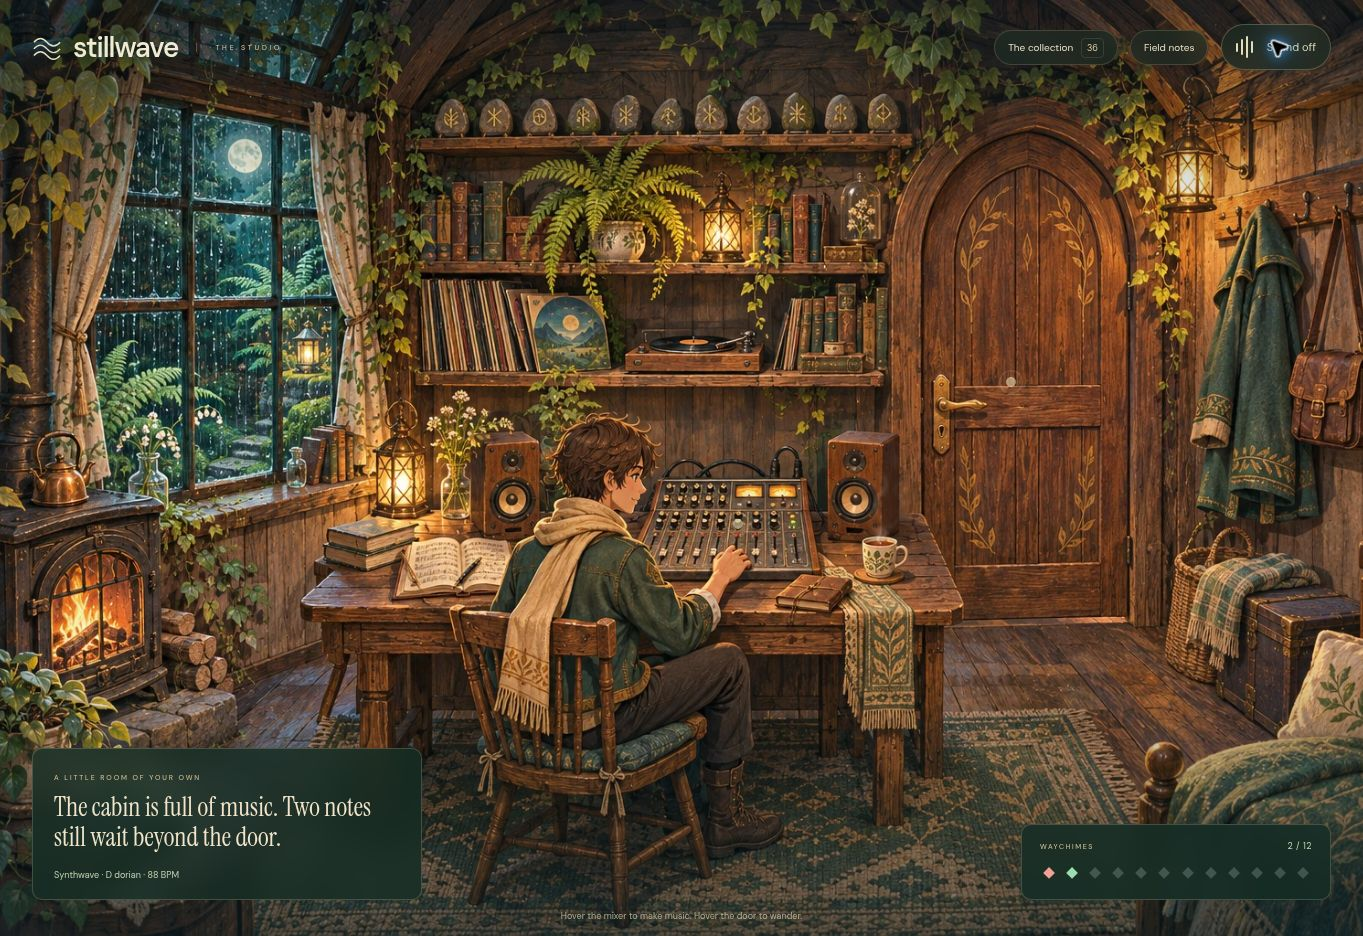
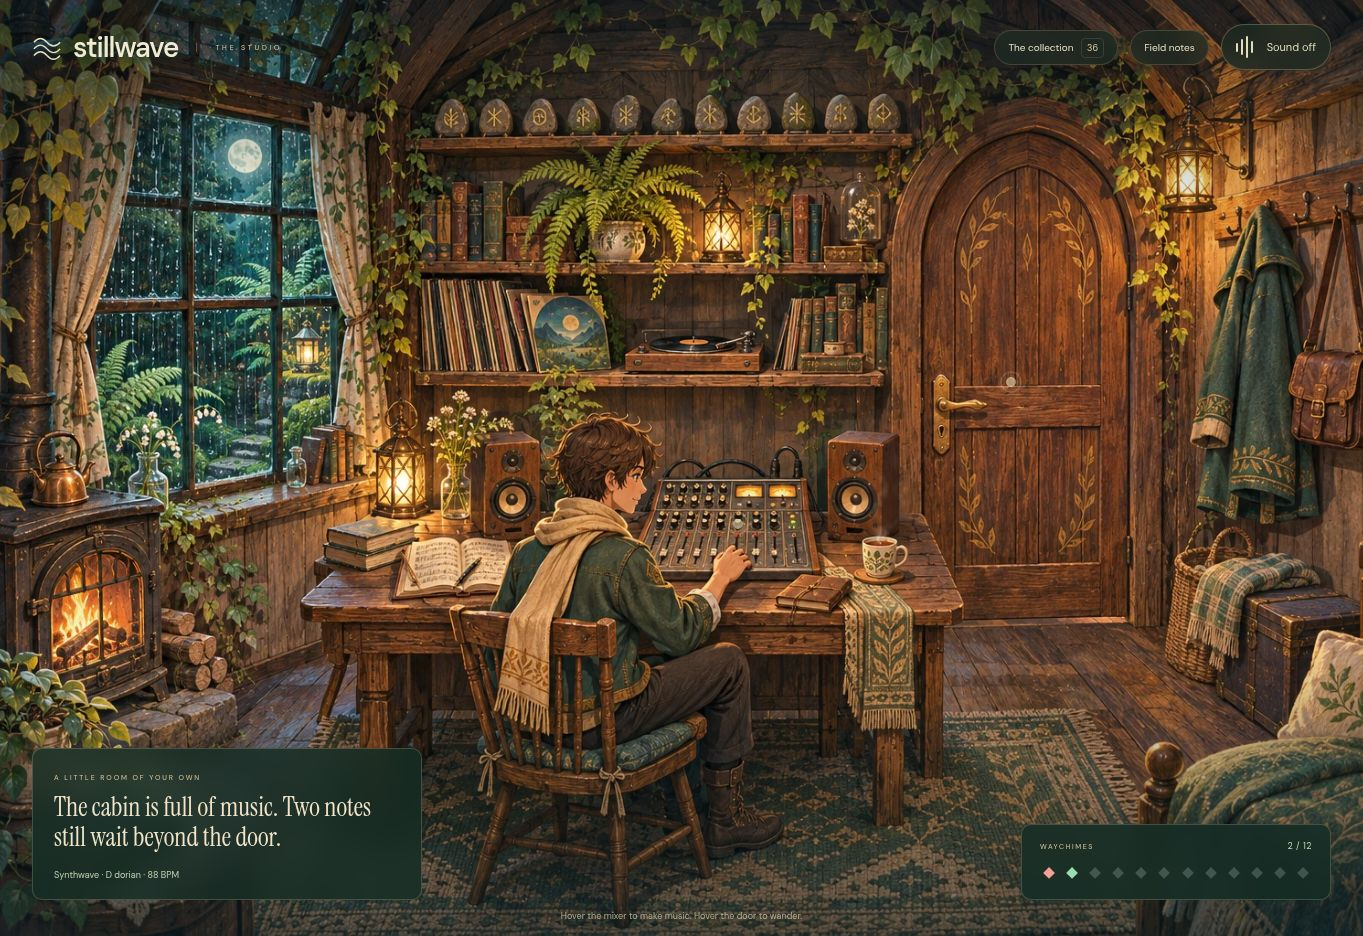
Animate the cabin hearth and candle lanterns
Add restrained flame movement and independent warm flicker to the hearth and four candle lanterns while preserving the metal frames. Keep the 24-second seam and Reduced Motion behavior, and verify every light in the browser checks.

diff --git a/js/cabin.js b/js/cabin.js
@@ -6,6 +6,17 @@ export function cabinCrop(width,height,imageWidth,imageHeight,positionX=.5){
  return {x:-(width-w)*positionX/w,y:-(height-h)*.5/h,width:width/w,height:height/h};
 }
 const TAU=Math.PI*2;
+export function flameMotion(phase,seed=0){
+ const angle=phase*TAU;
+ return {sway:.6*Math.sin(angle*19+seed)+.25*Math.sin(angle*37+seed*1.7),stretch:1+.07*Math.sin(angle*23+seed*.7)+.035*Math.sin(angle*41+seed*1.3),glow:.85+.08*Math.sin(angle*17+seed)+.045*Math.sin(angle*31+seed*1.9)};
+}
+const fireLights=[
+ {bounds:[77,603,103,133],opening:[[82,644],[90,627],[109,612],[130,608],[151,613],[169,629],[175,651],[177,702],[166,714],[86,734]],center:[125,671],radius:125,sway:2.6,seed:0,hearth:true},
+ {bounds:[431,494,61,62],opening:[[435,501],[486,497],[490,548],[432,554]],center:[461,525],radius:73,sway:.8,seed:1.7},
+ {bounds:[793,230,42,47],opening:[[795,235],[830,231],[833,272],[797,276]],center:[814,255],radius:48,sway:.65,seed:3.4},
+ {bounds:[1297,162,51,58],opening:[[1300,166],[1344,162],[1347,212],[1302,219]],center:[1320,191],radius:73,sway:.75,seed:5.1},
+ {bounds:[346,370,27,31],opening:[[349,374],[370,371],[372,397],[348,400]],center:[359,385],radius:33,sway:.5,seed:6.8}
+];
 const traveler=[[639,452],[696,448],[742,473],[735,527],[724,550],[760,589],[790,613],[819,595],[839,590],[846,605],[830,632],[811,646],[814,676],[784,717],[743,733],[684,749],[635,744],[580,740],[564,697],[565,653],[587,598],[610,583],[608,546],[620,526],[614,495]];
 const panes=[[[179,122],[223,130],[222,211],[167,210]],[[235,131],[322,143],[325,214],[235,212]],[[334,145],[355,152],[368,216],[336,215]],[[163,227],[222,230],[220,324],[146,326]],[[234,230],[325,232],[328,324],[234,324]],[[338,232],[370,234],[380,324],[339,324]],[[145,343],[219,343],[215,524],[127,539]],[[234,343],[328,342],[331,513],[231,526]],[[341,341],[385,343],[391,505],[343,511]]];
 function path(points){const p=new Path2D();points.forEach(([x,y],i)=>p[i?'lineTo':'moveTo'](x,y));p.closePath();return p;}
@@ -15,6 +26,13 @@ function mask(){
  return ctx.getImageData(0,0,1536,1024).data;
 }
 function smooth(low,high,value){const t=Math.max(0,Math.min(1,(value-low)/(high-low)));return t*t*(3-2*t);}
+function lampFrame(image,light){
+ const [x,y,width,height]=light.bounds,canvas=document.createElement('canvas');canvas.width=width;canvas.height=height;
+ const ctx=canvas.getContext('2d',{willReadFrequently:true});ctx.drawImage(image,x,y,width,height,0,0,width,height);const pixels=ctx.getImageData(0,0,width,height);
+ // Restore dark metal, window bars, and logs over the moving light behind them.
+ for(let i=0;i<pixels.data.length;i+=4){const brightness=pixels.data[i]*.3+pixels.data[i+1]*.59+pixels.data[i+2]*.11;pixels.data[i+3]=Math.round((1-smooth(58,160,brightness))*255);}
+ ctx.putImageData(pixels,0,0);return canvas;
+}
 function triangle(ctx,image,source,destination){
  const [s0,s1,s2]=source,[d0,d1,d2]=destination;
  const sx1=s1.x-s0.x,sy1=s1.y-s0.y,sx2=s2.x-s0.x,sy2=s2.y-s0.y,det=sx1*sy2-sx2*sy1;
@@ -44,6 +62,7 @@ export class CabinAnimation{
    await this.image.decode();const plate=new Image();plate.src=new URL('../assets/cabin-steam-plate.webp',import.meta.url).href;await plate.decode();
    this.ctx=this.canvas.getContext('2d',{alpha:false});if(!this.ctx)throw new Error('Canvas unavailable');
    this.travelerMask=mask();this.glass=new Path2D();for(const pane of panes)this.glass.addPath(path(pane));this.foliage=new Path2D();for(const pane of panes.slice(3))this.foliage.addPath(path(pane));
+   this.fireLights=fireLights.map(light=>({...light,clip:path(light.opening),frame:lampFrame(this.image,light)}));
    // Feather the generated clean plate into only the old steam area.
    this.plate=document.createElement('canvas');this.plate.width=96;this.plate.height=96;const pc=this.plate.getContext('2d');pc.drawImage(plate,0,0);
    pc.globalCompositeOperation='destination-in';const gradient=pc.createRadialGradient(43,43,19,43,43,43);gradient.addColorStop(0,'#fff');gradient.addColorStop(1,'#fff0');pc.fillStyle=gradient;pc.fillRect(0,0,96,77);pc.clearRect(0,77,96,19);
@@ -74,6 +93,23 @@ export class CabinAnimation{
   for(let i=0;i<12;i++){
    const age=(phase*4+i/12)%1,drift=Math.sin(age*TAU*1.2+angle*4+i*.32)*(2+age*7),x=985+drift,y=590-age*88,radius=5+age*5,opacity=Math.sin(age*Math.PI)**1.5*.13;
    ctx.save();ctx.translate(x,y);ctx.scale((2.4+age*3.8)/radius,1);const g=ctx.createRadialGradient(0,0,0,0,0,radius);g.addColorStop(0,`rgba(234,235,218,${opacity})`);g.addColorStop(1,'rgba(234,235,218,0)');ctx.fillStyle=g;ctx.fillRect(-radius,-radius,radius*2,radius*2);ctx.restore();
+  }
+  this.paintFire(phase);
+ }
+ paintFire(phase){
+  const ctx=this.ctx,angle=phase*TAU;
+  for(const light of this.fireLights){
+   const motion=flameMotion(phase,light.seed),[x,y,width,height]=light.bounds;
+   ctx.save();ctx.clip(light.clip);
+   mesh(ctx,this.image,light.bounds,light.hearth?6:2,light.hearth?8:3,(px,py)=>{
+    const rise=1-smooth(y,y+height,py),ripple=.7+.3*Math.sin(py*.16+angle*13+light.seed);
+    return [motion.sway*light.sway*rise*ripple,(1-motion.stretch)*height*.5*rise];
+   });
+   ctx.drawImage(light.frame,x,y);
+   ctx.globalCompositeOperation='screen';ctx.globalAlpha=.025+motion.glow*.045;ctx.drawImage(this.image,x,y,width,height,x,y,width,height);ctx.restore();
+   // A restrained warm reflection follows each flame's own flicker.
+   const [cx,cy]=light.center,radius=light.radius,opacity=(light.hearth?.045:.026)*motion.glow;
+   ctx.save();ctx.globalCompositeOperation='screen';const glow=ctx.createRadialGradient(cx,cy,0,cx,cy,radius);glow.addColorStop(0,`rgba(255,167,63,${opacity})`);glow.addColorStop(.45,`rgba(255,145,46,${opacity*.36})`);glow.addColorStop(1,'rgba(255,145,46,0)');ctx.fillStyle=glow;ctx.fillRect(cx-radius,cy-radius,radius*2,radius*2);ctx.restore();
   }
  }
  draw(now,{visible=true,positionX=.5}={}){

diff --git a/tests/cabin.html b/tests/cabin.html
@@ -2,7 +2,7 @@
 <style>body{font:15px system-ui;background:#17332f;color:#e6ecd4;margin:25px}button,a{background:#c4d7ad;color:#17332f;border:0;padding:12px 16px;border-radius:6px;margin:4px;cursor:pointer}pre{line-height:1.7;white-space:pre-wrap}.scene{position:relative;width:min(900px,100%);aspect-ratio:3/2;overflow:hidden}img,canvas{position:absolute;width:100%;height:100%;inset:0}canvas:not(.active){visibility:hidden}</style>
 <h1>Cabin animation checks</h1><p>Development page, excluded from publication.</p><button id="verify">Verify loop and motion regions</button><button id="play">Play / pause</button><button id="reduce">Toggle reduced motion</button><a href="./qa.html">Journey fixtures</a><pre id="result">Ready.</pre><div class="scene"><img id="art" src="./assets/cabin.webp"><canvas id="animation"></canvas></div>
 <script type="module">
-import {CabinAnimation} from './js/cabin.js?v=2.3.0';
+import {CabinAnimation} from './js/cabin.js?v=2.3.1';
 const canvas=document.querySelector('canvas'),image=document.querySelector('img'),animation=new CabinAnimation(canvas,image),out=document.querySelector('pre');let playing=true,reduced=false;
 document.querySelector('#play').onclick=()=>playing=!playing;
 document.querySelector('#reduce').onclick=()=>{reduced=!reduced;animation.setReducedMotion(reduced);out.textContent=reduced?'Reduced motion: original still image.':'Motion enabled.';};
@@ -15,7 +15,7 @@ document.querySelector('#verify').onclick=async()=>{
   const first=render(0),moved=render(3000),seam=render(24000);let seamError=0;for(let i=0;i<first.length;i++)seamError=Math.max(seamError,Math.abs(first[i]-seam[i]));check(seamError===0,'24-second loop seam is pixel-identical');
   const beforeSeam=render(23950),afterStart=render(50);const difference=(a,b)=>{let total=0;for(let i=0;i<a.length;i+=4)for(let c=0;c<3;c++)total+=Math.abs(a[i+c]-b[i+c]);return total/(a.length*.75);};check(difference(beforeSeam,first)<=difference(first,afterStart)*1.6+.03,'Crossing the seam has no larger jump than an ordinary frame');
   function delta(rect){let changed=0,total=0;for(let y=Math.ceil(rect[1]/1024*canvas.height);y<rect[3]/1024*canvas.height;y++)for(let x=Math.ceil(rect[0]/1536*canvas.width);x<rect[2]/1536*canvas.width;x++){const i=(y*canvas.width+x)*4;let difference=0;for(let ch=0;ch<3;ch++)difference+=Math.abs(first[i+ch]-moved[i+ch]);total++;if(difference>3)changed++;}return changed/total;}
-  for(const [name,region] of [['Traveler',[610,455,740,565]],['Rain',[242,243,315,310]],['Foliage',[245,355,318,485]],['Steam',[965,515,1010,584]]]){const fraction=delta(region);check(fraction>.015,name+' moves: '+(fraction*100).toFixed(1)+'% of sampled pixels');}
+  for(const [name,region] of [['Traveler',[610,455,740,565]],['Rain',[242,243,315,310]],['Foliage',[245,355,318,485]],['Steam',[965,515,1010,584]],['Hearth fire',[91,632,165,713]],['Desk candle',[441,506,481,546]],['Shelf candle',[801,239,826,270]],['Wall candle',[1305,173,1340,211]],['Window candle',[350,376,369,396]]]){const fraction=delta(region);check(fraction>.015,name+' moves: '+(fraction*100).toFixed(1)+'% of sampled pixels');}
   check(delta([1100,280,1210,520])===0,'Door and room remain stationary');
   animation.setReducedMotion(true);check(!canvas.classList.contains('active'),'Reduced motion reveals the original still');animation.setReducedMotion(false);
   const unavailable=document.createElement('canvas');unavailable.getContext=()=>null;const fallback=new CabinAnimation(unavailable,image);await fallback.prepare();check(fallback.disabled&&!unavailable.classList.contains('active'),'Unavailable canvas falls back without blocking the game');

diff --git a/index.html b/index.html
@@ -3,7 +3,7 @@
 <head>
 <meta charset="utf-8"><meta name="viewport" content="width=device-width,initial-scale=1,viewport-fit=cover"><meta name="theme-color" content="#142c2b"><meta name="apple-mobile-web-app-capable" content="yes"><meta name="apple-mobile-web-app-status-bar-style" content="black-translucent">
 <title>Stillwave — Find your sound</title><meta name="description" content="A gentle musical roguelike. Wander through six quiet worlds, discover new sounds, and take a little music home.">
-<link rel="icon" href="./icon.svg?v=2.3.0" type="image/svg+xml" sizes="any"><link rel="icon" href="./favicon.ico?v=2.3.0" sizes="16x16 32x32 48x48"><link rel="icon" href="./assets/favicon-32.png?v=2.3.0" type="image/png" sizes="32x32"><link rel="apple-touch-icon" href="./assets/apple-touch-icon.png?v=2.3.0" sizes="180x180"><link rel="stylesheet" href="./styles.css?v=stillwave-2.3.0"><link rel="stylesheet" href="./mobile.css?v=2.3.0"><link rel="manifest" href="./manifest.webmanifest">
+<link rel="icon" href="./icon.svg?v=2.3.1" type="image/svg+xml" sizes="any"><link rel="icon" href="./favicon.ico?v=2.3.1" sizes="16x16 32x32 48x48"><link rel="icon" href="./assets/favicon-32.png?v=2.3.1" type="image/png" sizes="32x32"><link rel="apple-touch-icon" href="./assets/apple-touch-icon.png?v=2.3.1" sizes="180x180"><link rel="stylesheet" href="./styles.css?v=stillwave-2.3.1"><link rel="stylesheet" href="./mobile.css?v=2.3.1"><link rel="manifest" href="./manifest.webmanifest">
 </head>
 <body>
 <main id="home" class="cabin-home" aria-label="Your cabin studio"><h1 class="sr-only">Stillwave · Your cabin studio</h1>
@@ -37,5 +37,5 @@
 <dialog id="modal" class="modal"><div id="modalBody"></div></dialog>
 <dialog id="rotatePrompt" class="rotate-prompt" aria-labelledby="rotateTitle"><svg viewBox="0 0 96 76" aria-hidden="true" fill="none" stroke="currentColor" stroke-width="2"><rect x="23" y="22" width="50" height="30" rx="5"/><path d="M66 23v28M9 39a30 30 0 0 1 48-22m-1-11 2 12-12-1M87 37a30 30 0 0 1-48 22m1 11-2-12 12 1"/></svg><p class="eyebrow">A WIDER LITTLE WORLD</p><h2 id="rotateTitle">Turn your phone sideways.</h2><p>Stillwave plays in landscape. Your journey will wait while you rotate.</p><button id="rotateFullscreen" class="button primary" hidden>Enter landscape</button></dialog>
 <noscript><div class="no-script">Stillwave needs JavaScript to play and compose its music.</div></noscript>
-<script type="module" src="./js/app.js?v=2.3.0"></script>
+<script type="module" src="./js/app.js?v=2.3.1"></script>
 </body></html>

diff --git a/js/app.js b/js/app.js
@@ -1,11 +1,11 @@
-import {REGIONS,WEAPONS,UNLOCKS,BASE_UNLOCKS,LAYERS,INSTRUMENTS,KEYS,SCALES,METERS,DEFAULT_MUSIC,PASSAGES,PASSAGE_SECONDS,WAYCHIMES,BLESSINGS,clamp,newSeed,safeMusic} from './data.js?v=2.3.0';
-import {readArchive,writeArchive,grantUnlock,grantNext,readRun,writeRun,clearRun,mergeRunRunes,completeJourney} from './save.js?v=2.3.0';
-import {MusicEngine} from './music.js?v=2.3.0';
-import {Journey} from './engine.js?v=2.3.0';
-import {Renderer} from './render.js?v=2.3.0';
-import {CabinAnimation} from './cabin.js?v=2.3.0';
-import {MobileLayout} from './mobile.js?v=2.3.0';
-import {esc,formatTime,closeMarkup,header,weaponArt,runeGlyph,decorateIcons} from './ui.js?v=2.3.0';
+import {REGIONS,WEAPONS,UNLOCKS,BASE_UNLOCKS,LAYERS,INSTRUMENTS,KEYS,SCALES,METERS,DEFAULT_MUSIC,PASSAGES,PASSAGE_SECONDS,WAYCHIMES,BLESSINGS,clamp,newSeed,safeMusic} from './data.js?v=2.3.1';
+import {readArchive,writeArchive,grantUnlock,grantNext,readRun,writeRun,clearRun,mergeRunRunes,completeJourney} from './save.js?v=2.3.1';
+import {MusicEngine} from './music.js?v=2.3.1';
+import {Journey} from './engine.js?v=2.3.1';
+import {Renderer} from './render.js?v=2.3.1';
+import {CabinAnimation} from './cabin.js?v=2.3.1';
+import {MobileLayout} from './mobile.js?v=2.3.1';
+import {esc,formatTime,closeMarkup,header,weaponArt,runeGlyph,decorateIcons} from './ui.js?v=2.3.1';
 const $=id=>document.getElementById(id);
 let archive=readArchive(),savedRun=readRun();mergeRunRunes(archive,savedRun);
 let studioMusic=safeMusic(archive.music,archive.unlocks,archive.cleared,archive.steadyCleared),music=studioMusic,scene='studio',game=null,paused=false,modalMode='',musicReturn='studio',collectionReturn='studio',selectedWeapon='sword',accountedSeconds=0,checkpointAt=0,last=performance.now(),hudAt=0,muted=archive.muted;

diff --git a/tests/audio-effects.html b/tests/audio-effects.html
@@ -1,6 +1,6 @@
 <!doctype html><html lang="en"><meta charset="utf-8"><title>Stillwave · effect regression checks</title><style>body{font:15px system-ui;background:#17332f;color:#e6ecd4;max-width:1000px;margin:40px auto;padding:30px}button{background:#c4d7ad;color:#17332f;border:0;padding:14px 20px;border-radius:7px;cursor:pointer}pre{line-height:1.9;white-space:pre-wrap}audio{width:100%}.players{display:grid;grid-template-columns:1fr 1fr;gap:25px}</style><h1>Stillwave · effect regression checks</h1><p>Local development page. Excluded from the published build.</p><button id="runEffects">Test the live music engine</button><pre id="out" aria-live="polite">Ready.</pre><section id="players" class="players"></section><script type="module">
-import {MusicEngine,createMusicGraph,scheduleBar,barSeconds,delayParameters,encodeWav} from './js/music.js?v=2.3.0';
-import {DEFAULT_MUSIC,LAYERS,REGIONS} from './js/data.js?v=2.3.0';
+import {MusicEngine,createMusicGraph,scheduleBar,barSeconds,delayParameters,encodeWav} from './js/music.js?v=2.3.1';
+import {DEFAULT_MUSIC,LAYERS,REGIONS} from './js/data.js?v=2.3.1';
 const $=id=>document.getElementById(id),lines=[];
 function report(ok,msg){lines.push((ok?'PASS ':'FAIL ')+msg);$('out').textContent=lines.join('\n');if(!ok)throw new Error(msg);}
 function energy(data,sr,start,end){let e=0;for(let i=Math.floor(start*sr);i<Math.min(data.length,Math.floor(end*sr));i++)e+=data[i]*data[i];return e;}

diff --git a/tests/browser.html b/tests/browser.html
@@ -12,8 +12,8 @@
 <button id="phone">Landscape phone preview</button><button id="rotatePreview">Rotate preview</button><button id="smallPreview">Small phone preview</button>
 <a href="./audio-effects.html">Audio checks</a><div id="phoneFrame"></div>
 <script type="module">
-import {DEFAULT_MUSIC,BASE_UNLOCKS,UNLOCKS,REGIONS,safeMusic} from './js/data.js?v=2.3.0';
-import {readArchive,writeArchive,clearRun,writeRun} from './js/save.js?v=2.3.0';
+import {DEFAULT_MUSIC,BASE_UNLOCKS,UNLOCKS,REGIONS,safeMusic} from './js/data.js?v=2.3.1';
+import {readArchive,writeArchive,clearRun,writeRun} from './js/save.js?v=2.3.1';
 const all=[...new Set([...BASE_UNLOCKS,...UNLOCKS.map(u=>u.id)])];
 function fixture(type,navigate=true){
  const a=readArchive({getItem:()=>null});clearRun();

diff --git a/js/save.js b/js/save.js
@@ -1,4 +1,4 @@
-import {BASE_UNLOCKS,DEFAULT_MUSIC,UNLOCKS,REGIONS,WAYCHIMES,safeMusic,cleanRunes,migrateBoons,normalizeUnlocks,clamp,newSeed,fieldMusic} from './data.js?v=2.3.0';
+import {BASE_UNLOCKS,DEFAULT_MUSIC,UNLOCKS,REGIONS,WAYCHIMES,safeMusic,cleanRunes,migrateBoons,normalizeUnlocks,clamp,newSeed,fieldMusic} from './data.js?v=2.3.1';
 export const SAVE_KEY='stillwave.archive.v1';
 export const RUN_KEY='stillwave.run.v1';
 const fresh=()=>({version:2,unlocks:[...BASE_UNLOCKS],runes:{},runs:0,kills:0,bosses:[],cleared:false,steadyCleared:false,bestArea:0,totalSeconds:0,music:safeMusic(DEFAULT_MUSIC,BASE_UNLOCKS),studioSeed:newSeed(),volume:.65,difficulty:'gentle',reducedMotion:false,autoAim:true,muted:false});

diff --git a/js/render.js b/js/render.js
@@ -1,5 +1,5 @@
-import {WORLD,REGIONS,PASSAGE_SECONDS} from './data.js?v=2.3.0';
-import {loadSprites} from './sprites.js?v=2.3.0';
+import {WORLD,REGIONS,PASSAGE_SECONDS} from './data.js?v=2.3.1';
+import {loadSprites} from './sprites.js?v=2.3.1';
 const TAU=Math.PI*2;
 export class Renderer{
  constructor(canvas){this.canvas=canvas;this.ctx=canvas.getContext('2d');this.sprites=loadSprites();this.atlas=new Image();this.atlas.src=new URL('../assets/worlds.webp',import.meta.url).href;this.camera={x:0,y:0,scale:1};this.reducedMotion=false;this.smallScreen=matchMedia('(max-height: 600px) and (pointer: coarse)');this.time=0;this.w=0;this.h=0;}

diff --git a/js/engine.js b/js/engine.js
@@ -1,4 +1,4 @@
-import {WORLD,REGIONS,WEAPONS,PASSAGES,PASSAGE_SECONDS,seeded,newSeed,clamp,difficultyTuning,cleanRunes,runeAt,BASE_UNLOCKS,DEFAULT_MUSIC,normalizeUnlocks,fieldMusic} from './data.js?v=2.3.0';
+import {WORLD,REGIONS,WEAPONS,PASSAGES,PASSAGE_SECONDS,seeded,newSeed,clamp,difficultyTuning,cleanRunes,runeAt,BASE_UNLOCKS,DEFAULT_MUSIC,normalizeUnlocks,fieldMusic} from './data.js?v=2.3.1';
 const distance=(a,b)=>Math.hypot(a.x-b.x,a.y-b.y);
 export function placeEchoShrines(rng,spawn){
  const shrines=[],exit={x:WORLD.w*.5,y:170};

diff --git a/js/music.js b/js/music.js
@@ -1,4 +1,4 @@
-import {REGIONS,KEYS,METERS,seeded,scaleNote,progression,clamp} from './data.js?v=2.3.0';
+import {REGIONS,KEYS,METERS,seeded,scaleNote,progression,clamp} from './data.js?v=2.3.1';
 export function beatSeconds(s){return 60/clamp(s.bpm,60,96)*(s.meter==='6/8'?.5:1);}
 export function barSeconds(s){return beatSeconds(s)*METERS[s.meter];}
 export function grooveTime(time,s){

diff --git a/tests/qa-controls.js b/tests/qa-controls.js
@@ -1,5 +1,5 @@
 // Development-only controls, excluded from the production build.
-import {Journey} from './js/engine.js?v=2.3.0';
+import {Journey} from './js/engine.js?v=2.3.1';
 let active;
 const enter=Journey.prototype.enterRoom;
 Journey.prototype.enterRoom=function(...args){active=this;return enter.apply(this,args);};

diff --git a/js/data.js b/js/data.js
@@ -1,4 +1,4 @@
-export const VERSION = '2.3.0';
+export const VERSION = '2.3.1';
 export const PASSAGES = 8;
 export const PASSAGE_SECONDS = 75;
 export const WORLD = {w:1600,h:1100};
